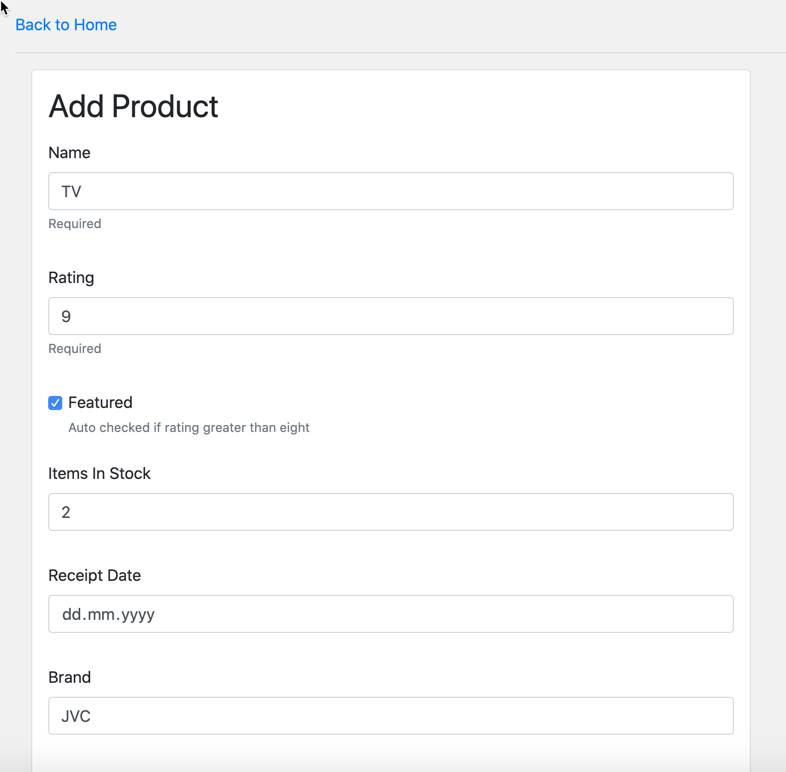
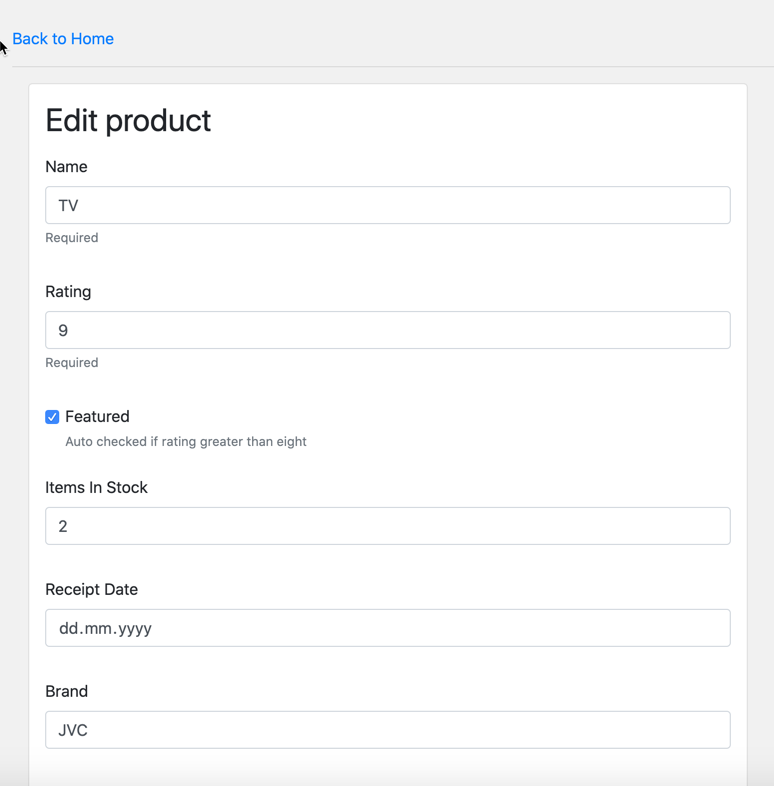
Fix: Fix form title

diff --git a/src/components/Products/ProductForm.js b/src/components/Products/ProductForm.js
@@ -90,7 +90,7 @@ class ProductForm extends Component {
             backgroundColor: 'white',
           }}
         >
-          <h2>Add Product</h2>
+          <h2>{productId ? 'Edit product' : 'Add Product'}</h2>
           <Formik
             enableReinitialize
             initialValues={productData}
